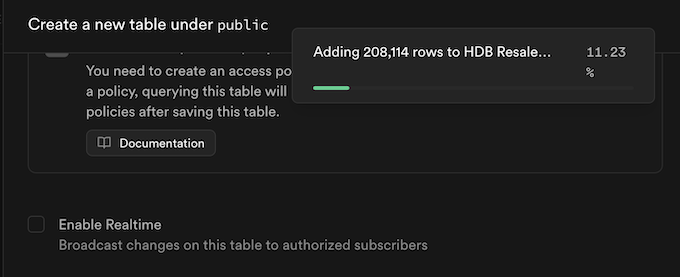
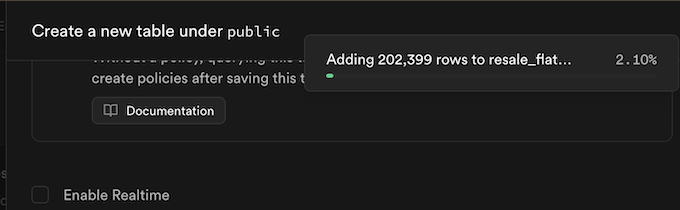
updated instructions for the lessons, update supabase setup and also move env file to a sub folder pending deletion

diff --git a/lesson.md b/lesson.md
@@ -4,7 +4,7 @@
 
 ### Preparation
 
-Create the conda environment based on the `environment.yml` file. We will also be using google cloud (for which the account was created in the previous unit) in this lesson.
+Create the conda environment based on the `elt_environment.yml` file at the [Environment Folder](https://github.com/su-ntu-ctp/5m-data-2.1-intro-big-data-eng/tree/main/environments). We will also be using google cloud (for which the account was created in the previous unit) in this lesson.
 
 ### Lesson Overview
 
@@ -17,23 +17,14 @@ We will also learn about an orchestration framework called `Dagster`. Data orche
 
 ## Initial Set up
 
-Ensure you have conda setup. Please do:
+Ensure you have conda setup as mentioned in the preparation section.
 
-```
-conda env update -f environment.yml
-```
-
-This should install the `elt` conda environment. You can activate it via:
+You should have `elt` conda environment ready. You can activate it via:
 
 ```
 conda activate elt
 ```
 
-Lastly, one more step to install the packages:
-
-```
-pip install -r requirements.txt
-```
 
 Also - please ensure you have a Google cloud setup for GCP as well as installed the gcloud CLI:
 
@@ -120,6 +111,11 @@ meltano select tap-github releases body
 meltano select tap-github releases published_at
 ```
 
+Finally, we can test the connection using the command below:
+```bash
+meltano config tap-github test
+```
+
 ### Add a Dummy Loader to Dump Data into JSON
 
 We add a JSON target to test our pipeline. The JSON target will dump the data into a JSON file.
@@ -158,13 +154,14 @@ meltano config target-bigquery set --interactive
 
 Set the following options:
 
-- `project`: *your_gcp_project_id*
-- `dataset`: `ingestion`
 - `credentials_path`: _full path to the service account key file_
-- `method`: `batch_job`
+- `dataset`: `ingestion`
 - `denormalized`: `true`
 - `flattening_enabled`: `true`
 - `flattening_max_depth`: `1`
+- `method`: `batch_job`
+- `project`: *your_gcp_project_id*
+
 
 ### Run Github to BigQuery
 
@@ -234,14 +231,14 @@ meltano config target-bigquery set --interactive
 
 Set the following options:
 
-- `project`: *your_gcp_project_id*
-- `dataset`: `resale`
-- `credentials_path`: _full path to the service account key file_
-- `method`: `batch_job`
-- `denormalized`: `true`
 - `batch_size`: `104857600`
+- `credentials_path`: _full path to the service account key file_
+- `dataset`: `resale`
+- `denormalized`: `true`
 - `flattening_enabled`: `true`
 - `flattening_max_depth`: `1`
+- `method`: `batch_job`
+- `project`: *your_gcp_project_id*
 
 You can refer to an example of the `meltano.yml` in the `solutions` branch of the lesson 2.6 repo [here](https://github.com/su-ntu-ctp/5m-data-2.6-data-pipelines-orchestration/blob/solutions/solutions/meltano-ingestion/meltano.yml).
 
@@ -253,21 +250,15 @@ We can now run the full ingestion (extract-load) pipeline from Supabase to BigQu
 meltano run tap-postgres target-bigquery
 ```
 
-It will take about 25 mins to complete due to the large amount of data. You will see the logs printed out in your console. Once the pipeline is completed, you can check the data in BigQuery.
+You will see the logs printed out in your console. Once the pipeline is completed, you can check the data in BigQuery.
 
 
 
 ### Create Dbt project
 
-Let's create a Dbt project to transform the data in BigQuery.
+Let's create a Dbt project to transform the data in BigQuery. Before that please exit the `meltano-ingestion` folder by using the command `cd ..`.
 
-First, activate the conda environment from unit 2.5.
-
-```bash
-conda activate dwh
-```
-
-Then create a new dbt project.
+To create a new dbt project.
 
 ```bash
 dbt init resale_flat
@@ -284,6 +275,14 @@ We can start to create the source and models in the dbt project.
 > 3. Create a `prices_by_town_type_model.sql` model (materialized table) which selects the `town`, `flat_type` and `flat_model` columns from `prices`, group by them and calculate the average of `floor_area_sqm`, `resale_price` and `price_per_sqm`. Finally, sort by `town`, `flat_type` and `flat_model`.
 
 ### Run Dbt
+
+Check dbt connection first
+
+```bash
+dbt debug
+```
+
+Optional: you can run `dbt clean` to clear any logs or run file in the dbt folders.
 
 Run the dbt project to transform the data.
 
@@ -303,11 +302,13 @@ You should see 2 new tables in the `resale_flat` dataset.
 
 ### Create a Dagster Project
 
-First, reactivate the conda environment.
+Make sure you are still in `elt` environment, if not run the command below:
 
 ```bash
 conda activate elt
 ```
+
+Also make sure you exit the dbt folder `resale_flat` using command `cd ..`
 
 To create a new Dagster project:
 
@@ -315,13 +316,7 @@ To create a new Dagster project:
 dagster project scaffold --name dagster-orchestration
 ```
 
-After running this command, you should see a new directory called `dagster-orchestration` in your current directory. This directory contains the files that make up your Dagster project. Next, add the following dependencies to the `setup.py` file:
-
-- `requests` will be used to download data from the internet
-- `pandas` is a popular library for working with tabular data
-- `matplotlib` makes it easy to make charts in Python
-- `dagster_duckdb` manages how Dagster can read and write to DuckDB
-- `dagster_duckdb_pandas` allows loading data from DuckDB into Pandas DataFrames
+After running this command, you should see a new directory called `dagster-orchestration` in your current directory. This directory contains the files that make up your Dagster project. 
 
 Then install the Python dependencies by:
 

diff --git a/supabase_db_setup_hdb.md b/supabase_db_setup_hdb.md
@@ -8,16 +8,16 @@
 ![alt text](assets/create_db.png)
 
 
-## Preparing and Download CSV
-- Download the csv file on HDB resale price from the website https://data.gov.sg
-- Please note that as of March 2025, there should be around 201K rows.
+## Preparing Data File
+- The data file named is located at the data [folder](data/) 
+- File name is `ResaleflatpricesbasedonregistrationdatefromJan2017onwards.csv`
 
 ## Importing CSV to Supabase
 - Create a table under table editor but do not enter anything yet.
 
 ![alt text](assets/new_table.png)
 
-- Enter the table name as shown:
+- Enter the table name as shown: `resale_flat_prices_from_jan_2017`
 
 ![alt text](assets/table_name.png)
 
@@ -25,7 +25,7 @@
 
 ![alt text](assets/import_data.png)
 
-- Click browse (some classmate got issue with drag and drop)
+- Click **browse** (some classmate got issue with drag and drop)
 
 ![alt text](assets/browse.png)
 
